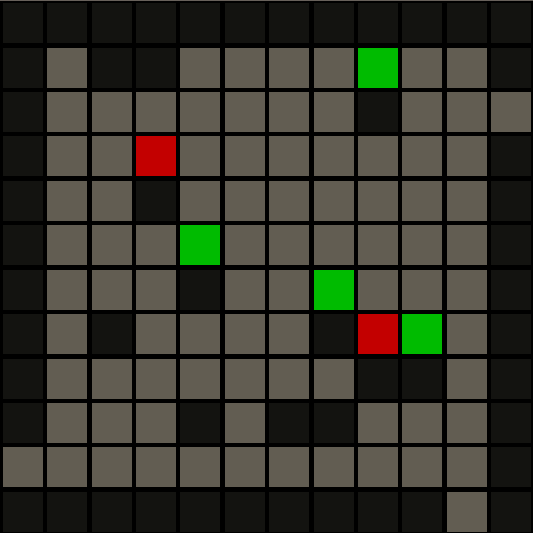
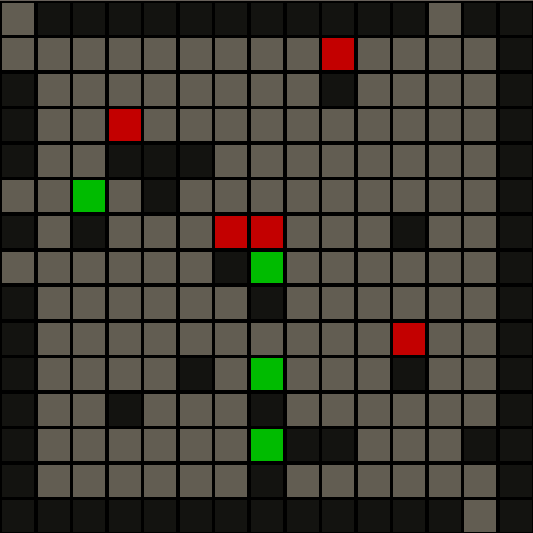
level generator fix;

diff --git a/DropCube/Assets/Scripts/Scene.cs b/DropCube/Assets/Scripts/Scene.cs
@@ -370,13 +370,13 @@ public class Scene
 
                     while(true)
                     {
-                        currentPosition = currentPosition - realGravityDirection;
+                        currentPosition = currentPosition + realGravityDirection;
                         if(IsInBounds(currentPosition))
                         {
                             CubeType cubeType = cubes[Mathf.RoundToInt(currentPosition.x), Mathf.RoundToInt(currentPosition.y)];
                             if(cubeType != CubeType.Gray)
                             {
-                                Vector2 newPosition = currentPosition + realGravityDirection;
+                                Vector2 newPosition = currentPosition - realGravityDirection;
                                 cubes[i, j] = CubeType.Gray;
                                 cubes[Mathf.RoundToInt(newPosition.x), Mathf.RoundToInt(newPosition.y)] = currentCubeType;
                                 break;

diff --git a/DropCube/Assets/Scripts/Generator.cs b/DropCube/Assets/Scripts/Generator.cs
@@ -36,11 +36,11 @@ public class Generator : MonoBehaviour
         {
             if(move)
             {
-                solutionText.text = solutionText.text + "\nLeft";
+                solutionText.text = solutionText.text + "\nRight";
             }
             else
             {
-                solutionText.text = solutionText.text + "\nRight";
+                solutionText.text = solutionText.text + "\nLeft";
             }
         }
 
@@ -50,9 +50,9 @@ public class Generator : MonoBehaviour
 
         foreach(CubeType[,] move in solution)
         {
-            for(int i = 0; i < scene.levelWidth; i++)
+            for(int j = 0; j < scene.levelHeight; j++)
             {
-                for(int j = 0; j < scene.levelHeight; j++)
+                for(int i = scene.levelWidth - 1; i >= 0; i--)
                 {
                     solutionString = solutionString + (int)move[i, j] + " ";
                 }
